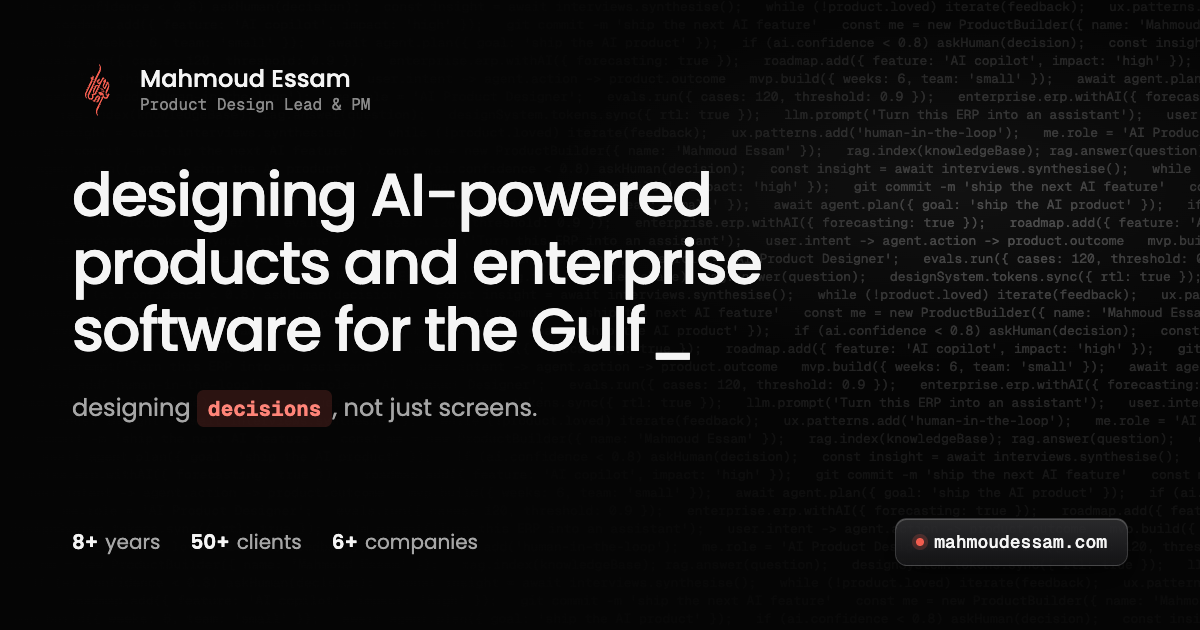
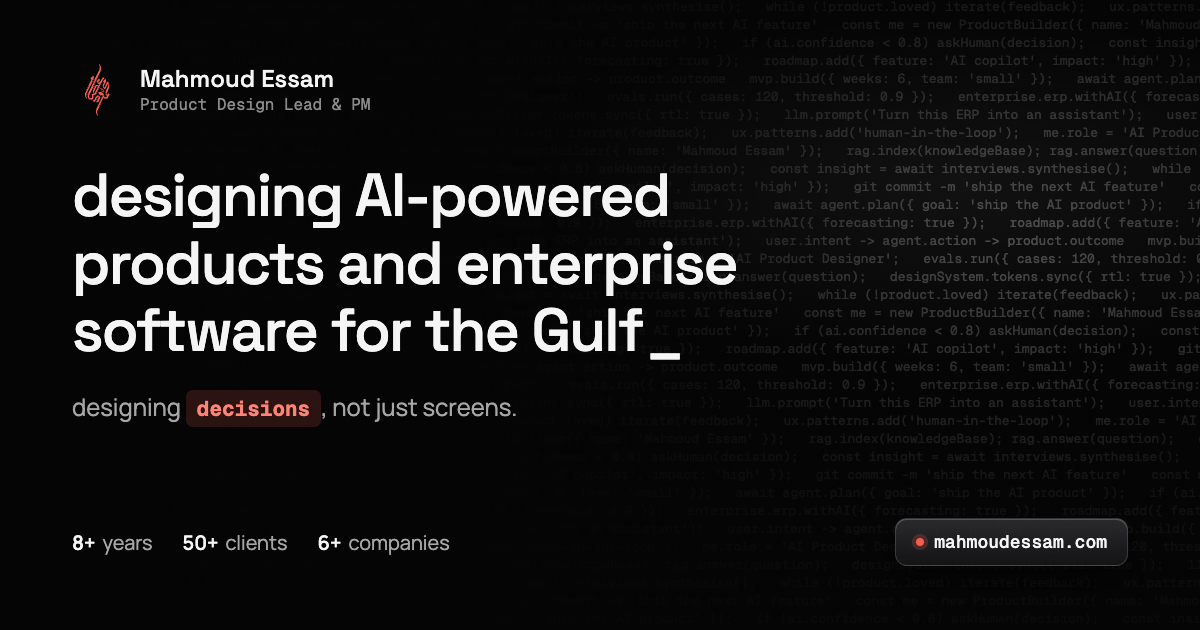
Match BrandScan's fonts, type the sidebar title, centre the work column
Space Grotesk for headings and Manrope for body text, the same pair as the
BrandScan landing page; the share image is re-rendered with them. The sidebar
title now runs the same type-and-erase cycle as the intro headline, and the
work column is centred in the space beside the sidebar on wide screens.

diff --git a/index.html b/index.html
@@ -72,7 +72,7 @@
 ============================================ -->
 <link rel="preconnect" href="https://fonts.googleapis.com" />
 <link rel="preconnect" href="https://fonts.gstatic.com" crossorigin />
-<link href="https://fonts.googleapis.com/css2?family=Poppins:wght@300;400;500;600&family=Geist+Mono:wght@400;500;700&display=swap" rel="stylesheet" />
+<link href="https://fonts.googleapis.com/css2?family=Manrope:wght@400;500;600;700&family=Space+Grotesk:wght@400;500;600;700&family=Geist+Mono:wght@400;500;700&display=swap" rel="stylesheet" />
 
 <!-- ============================================
      STRUCTURED DATA: one connected graph
@@ -592,8 +592,8 @@
     --accent-soft: #ff8478;
     --chip-bg: rgba(242, 93, 79, 0.16);   /* brand coral, same as the logo and the contact headline */
     --chip-text: #ff8478;
-    --display: 'Poppins', system-ui, -apple-system, sans-serif;
-    --sans: 'Poppins', system-ui, -apple-system, sans-serif;
+    --display: 'Space Grotesk', system-ui, -apple-system, sans-serif;   /* headings, same as the BrandScan landing */
+    --sans: 'Manrope', system-ui, -apple-system, sans-serif;            /* body, same as the BrandScan landing */
     --mono: 'Geist Mono', ui-monospace, 'SF Mono', monospace;
     --side-w: clamp(360px, 30vw, 440px);
     --ease: cubic-bezier(0.16, 1, 0.3, 1);
@@ -856,7 +856,7 @@
      WORK COLUMN: one item per row, everything stacked
   ============================================ */
   .work { position: relative; z-index: 1; padding: 24px 20px 0; }
-  .work__inner { max-width: 1080px; }
+  .work__inner { max-width: 1080px; margin: 0 auto; }   /* centred in the space beside the sidebar on wide screens */
   .sec { padding-bottom: 120px; scroll-margin-top: 40px; }
   .sec__head {
     display: flex; align-items: baseline; justify-content: space-between; gap: 24px;
@@ -1172,7 +1172,7 @@
       <span><b>Mahmoud Essam</b><small>Product Design Lead</small></span>
     </a>
 
-    <p class="side__title title-stack" id="sideTitle"><span class="title-stack__live" id="sideLive">designing AI-powered products and enterprise software for the Gulf</span></p>
+    <p class="side__title title-stack" id="sideTitle"><span class="sr-only">designing AI-powered products and enterprise software for the Gulf</span><span class="title-stack__live" aria-hidden="true"><span id="sideTyped">designing AI-powered products and enterprise software for the Gulf</span><span class="caret">_</span></span></p>
 
     <p class="lead"><b class="hl">Mahmoud Essam</b> is a <b class="hl">Product Design Lead &amp; PM</b> for AI-native and enterprise teams, designing <span class="chip">decisions</span>, not just screens.</p>
 
@@ -1684,9 +1684,10 @@
 
   /* ============================================
      INTRO: the headline types a sentence, holds it, erases it and types the next.
+     The sidebar title runs the same cycle once the intro docks into it.
      The rest of the intro fades in after the first sentence.
   ============================================ */
-  var typed = $('typed'), sideLive = $('sideLive');
+  var typed = $('typed'), sideTyped = $('sideTyped');
   var PHRASES = [
     typed.textContent,
     'turning complex ERP workflows into AI assistants teams trust',
@@ -1703,14 +1704,14 @@
     });
   }
   addSizers($('introTitle'), true);
-  addSizers($('sideTitle'), false);
+  addSizers($('sideTitle'), true);
 
   var phraseIdx = 0, charIdx = PHRASES[0].length, typingTimer = 0;
   var TYPE_MS = [22, 38], ERASE_MS = [14, 12], HOLD_MS = 2800, GAP_MS = 380;
-  function showChars(n) { charIdx = n; typed.textContent = PHRASES[phraseIdx].slice(0, n); }
-  // Only spend effort while the headline can be seen.
-  function introOnScreen() {
-    if (dockable.matches) return !root.classList.contains('is-docked');
+  function showChars(n) { charIdx = n; typed.textContent = sideTyped.textContent = PHRASES[phraseIdx].slice(0, n); }
+  // Only spend effort while a title can be seen: on desktop one of the two always is.
+  function titleOnScreen() {
+    if (dockable.matches) return true;
     return $('top').getBoundingClientRect().bottom > 80;
   }
   function typeStep() {
@@ -1723,7 +1724,7 @@
     typingTimer = setTimeout(eraseStep, HOLD_MS);
   }
   function eraseStep() {
-    if (!introOnScreen()) { typingTimer = setTimeout(eraseStep, 600); return; }
+    if (!titleOnScreen()) { typingTimer = setTimeout(eraseStep, 600); return; }
     if (charIdx > 0) {
       showChars(charIdx - 1);
       typingTimer = setTimeout(eraseStep, ERASE_MS[0] + Math.random() * ERASE_MS[1]);
@@ -1732,18 +1733,13 @@
     phraseIdx = (phraseIdx + 1) % PHRASES.length;
     typingTimer = setTimeout(typeStep, GAP_MS);
   }
-  // Docking: complete the sentence on screen and carry it into the sidebar title,
-  // so the headline flies into matching text. Undocking picks the cycle up again.
-  function freezeTitle() {
+  // Docking either way: complete the sentence so the headline flies into matching
+  // text, hold it while the move settles, then carry on the cycle in the new spot.
+  function settleTitle() {
     clearTimeout(typingTimer);
     showChars(PHRASES[phraseIdx].length);
-    sideLive.textContent = PHRASES[phraseIdx];
     root.classList.add('is-ready');
-  }
-  function resumeTitle() {
-    if (reduceMotion) return;
-    clearTimeout(typingTimer);
-    typingTimer = setTimeout(eraseStep, HOLD_MS);
+    if (!reduceMotion) typingTimer = setTimeout(eraseStep, HOLD_MS);
   }
   if (reduceMotion) {
     root.classList.add('is-ready');
@@ -1903,7 +1899,7 @@
     if (root.classList.contains('is-docked') === on) return;
     holdBackground(900);
     root.classList.toggle('is-docked', on);
-    if (on) freezeTitle(); else resumeTitle();
+    settleTitle();
     tip.classList.remove('is-on');
     kickLogos();
   }
